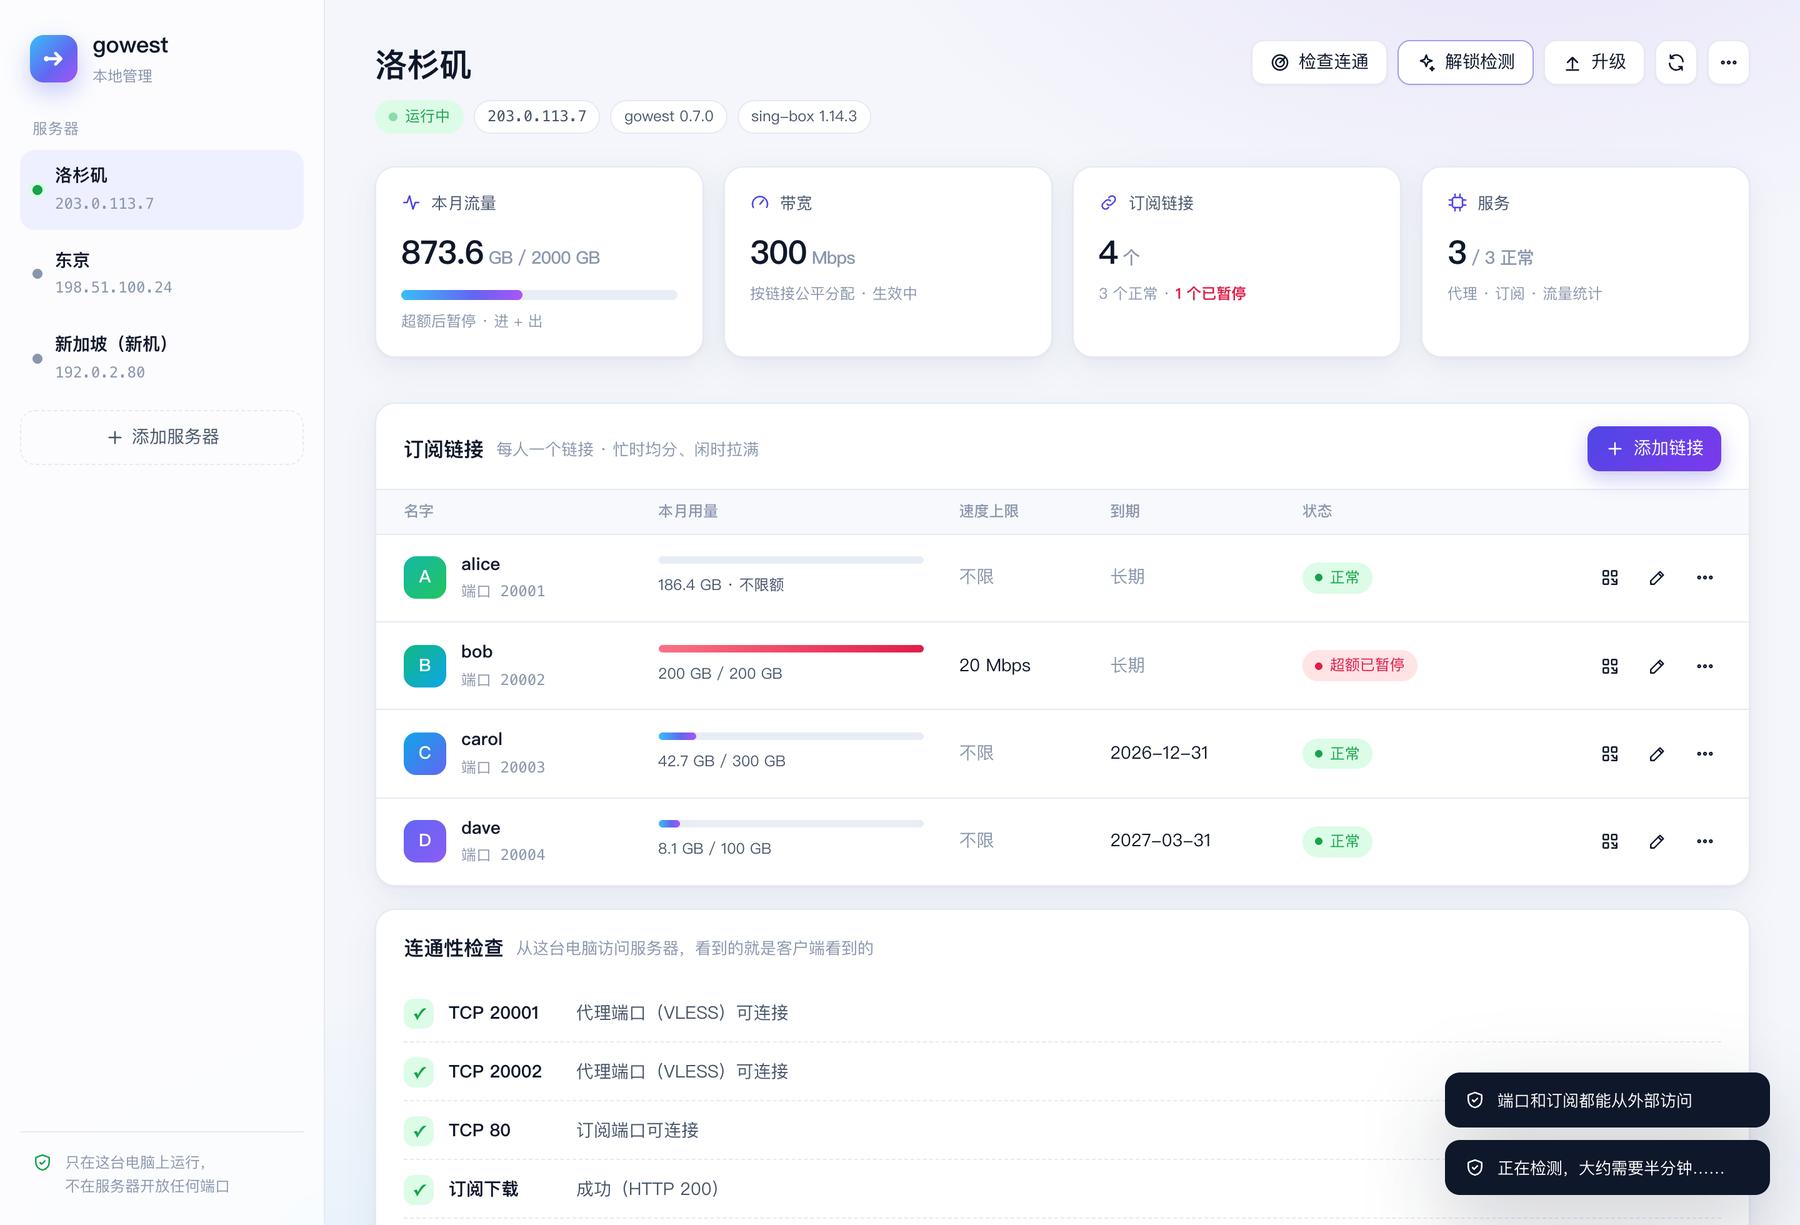
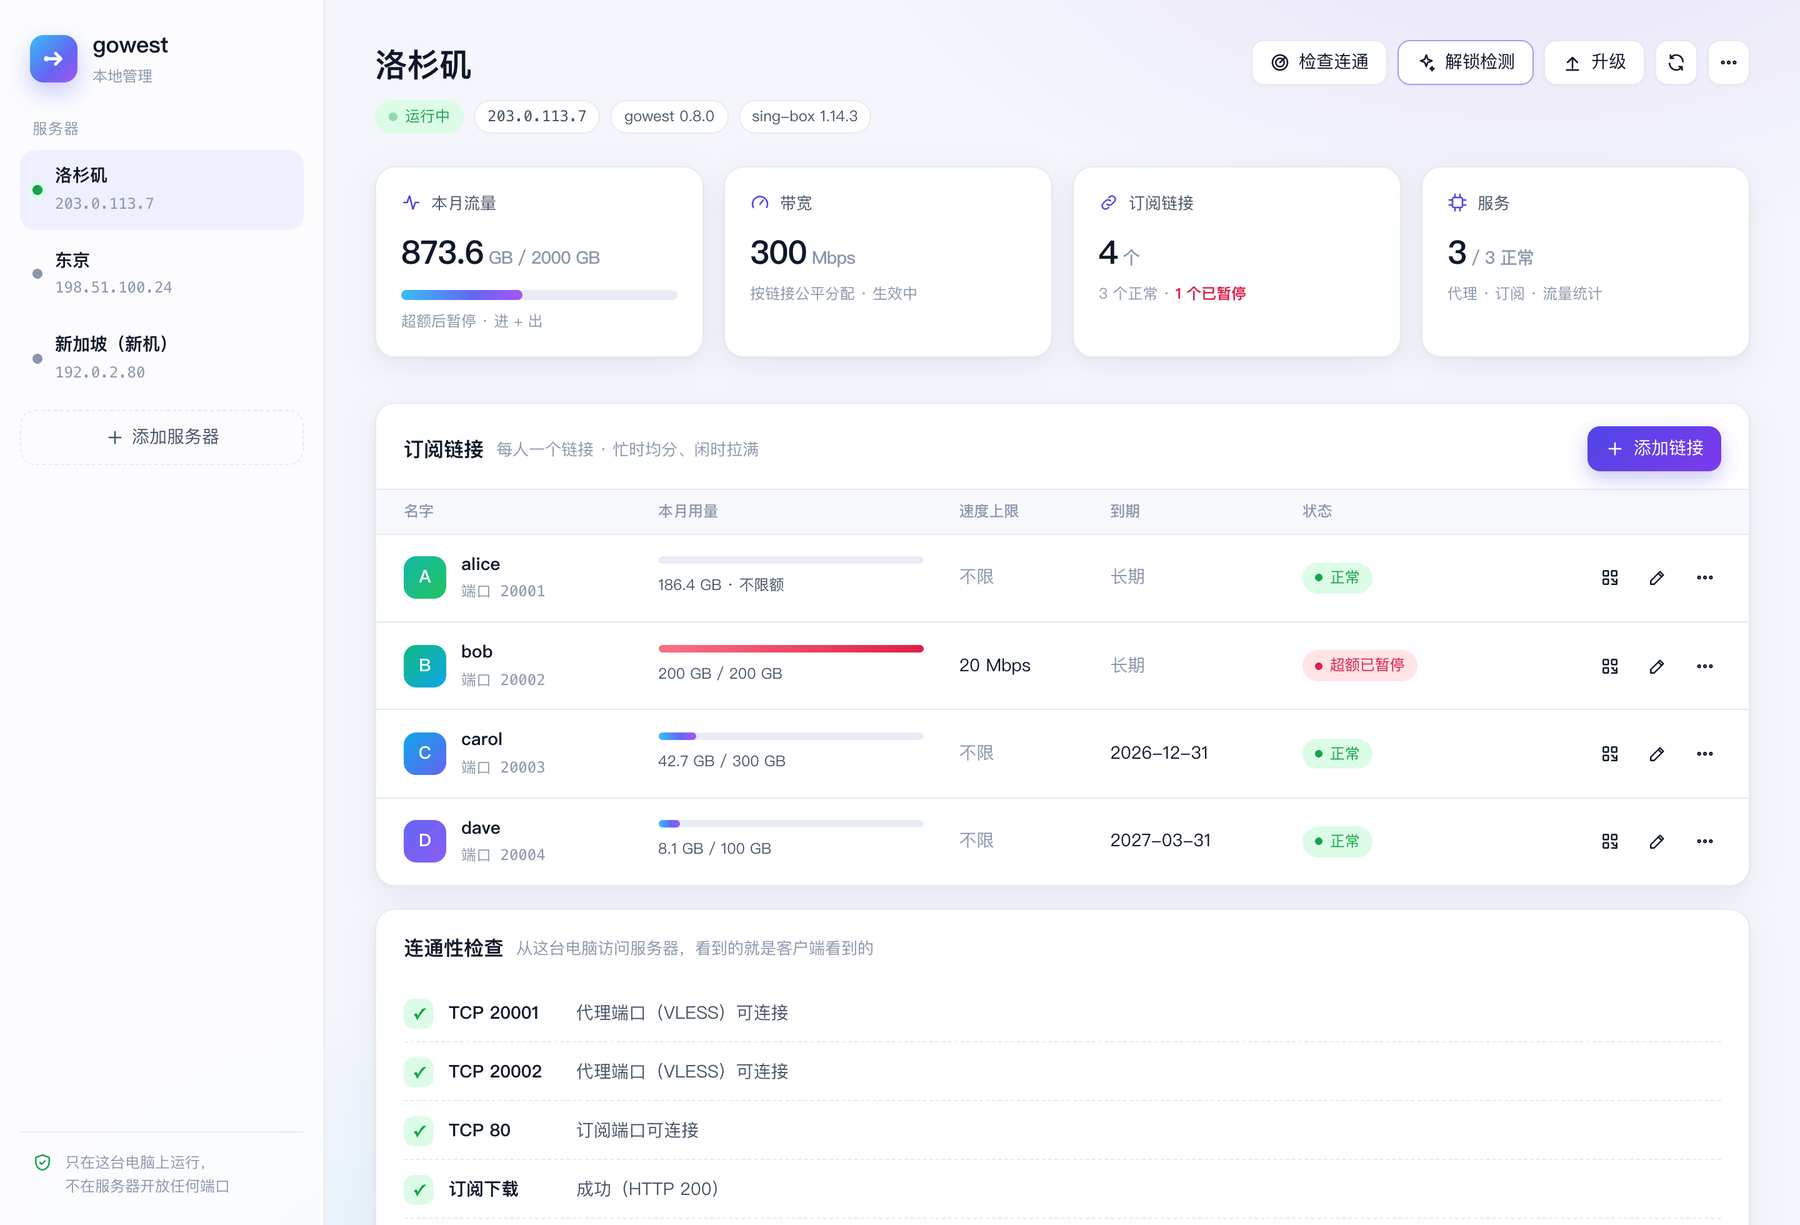
Refresh the README promo and fix lost output before exec
quick's opening lines vanished when run over SSH or from the web page:
stdout is block-buffered without a TTY and exec dropped the buffer.
The promo now shows the quick install, per-URL quotas and the local web
UI; screenshots no longer include transient toasts.

Changed region(s): [[0.7778, 0.8686, 0.9956, 1.0]]

diff --git a/ui/app.js b/ui/app.js
@@ -379,6 +379,7 @@ function runJob(jobId, title, server) {
     $('#job-state', el).innerHTML = d.ok ? '<b style="color:var(--good)">已完成</b>' : '<b style="color:var(--bad)">没有成功，详情见上面的输出</b>';
     $('#job-close', el).textContent = '关闭';
     if (d.ok) bars.forEach((b) => { b.className = 'done'; });
+    else bars.forEach((b) => { if (b.className === 'run' || (!b.className && b === bars[Math.ceil(stage) - 1])) b.className = 'fail'; });
     loadStatus(server);
   };
   tick();

diff --git a/ui/app.css b/ui/app.css
@@ -318,3 +318,4 @@ button, input, select { font: inherit; color: inherit; }
 .badge, .chip { white-space: nowrap; }
 .qr-wrap > div { min-width: 0; }
 .bar.empty > i { width: 0; }
+.progress i.fail { background: var(--bad); animation: none; }

diff --git a/tests/test_ui_080.py b/tests/test_ui_080.py
@@ -63,6 +63,17 @@ class CommandTests(unittest.TestCase):
         self.assertFalse(any('__pycache__' in n for n in names))
 
 
+class OutputTests(unittest.TestCase):
+    def test_messages_before_exec_survive_a_pipe(self):
+        """Over SSH stdout is a pipe; exec must not drop what quick printed first."""
+        import subprocess
+        kit = Path(__file__).resolve().parents[1]
+        p = subprocess.run([sys.executable, '-B', '-c',
+                            "import launcher; print('before-exec'); launcher.dispatch(['plan', '--help'])"],
+                           cwd=kit, capture_output=True, text=True, timeout=30)
+        self.assertIn('before-exec', p.stdout)
+        self.assertIn('--settings', p.stdout)
+
 class AccessTests(unittest.TestCase):
     def handler(self, host, origin=None):
         h = SimpleNamespace(headers={'Host': host, **({'Origin': origin} if origin else {})}, port=8123)

diff --git a/launcher.py b/launcher.py
@@ -217,6 +217,10 @@ def dispatch(arguments):
     if kit_runtime.compiled():
         import vpn
         return vpn.main(arguments)
+    # exec replaces this process without flushing; over SSH (no TTY) stdout is
+    # block-buffered, so earlier messages would silently disappear.
+    sys.stdout.flush()
+    sys.stderr.flush()
     os.execv(sys.executable, [sys.executable, '-B', str(ROOT / 'vpn.py')] + arguments)
 
 

diff --git a/render.py b/render.py
@@ -20,7 +20,7 @@ import routing
 
 DOMAINS = routing.CLAUDE
 PROJECT_NAME = 'gowest'
-KIT_VERSION = '0.8.0'
+KIT_VERSION = '0.8.1'
 SELECT_GROUP = '出口选择'
 AUTO_GROUP = '自动回退'
 # Tailscale control plane stays direct on every Mihomo client:

diff --git a/CHANGELOG.md b/CHANGELOG.md
@@ -2,6 +2,13 @@
 
 只记录对使用者有影响的变化。服务器内部路径 `/opt/la-vpn`、`/etc/la-vpn`、`/var/lib/la-vpn-deploy` 和 `la-vpn*` systemd 服务名为兼容旧部署而保留，各版本均未改动。
 
+## 0.8.1 · 2026-10-27
+
+- 修正：通过 SSH 或网页运行 `quick` 时，开始安装前打印的识别 IP、参数位置和安全组提示会丢失。原因是没有终端时输出有缓冲，切换到安装进程前没有刷新。已加回归测试。
+- 网页：安装或升级失败时，进度条上出错的那一段标红。
+- README 顶部动画更新：一条 `quick` 命令安装、按人管流量、本地网页管理。网页截图去掉了临时弹出的提示。
+- 验证：在阿里云测试机上，用真实网页完整走了一遍"添加服务器 → 显示未安装 → 开始安装"。上传、远程执行、实时输出都正常；因为那台机器已有 nginx，安装在只读预检阶段被正确拒绝，没有做任何改动。测试后已删除上传的目录和锁文件，nginx、docker 照常运行。
+
 ## 0.8.0 · 2026-10-27
 
 - **本地网页管理**：`./remote.sh ui`（Windows 上运行 `python gowest_ui.py`）。
@@ -158,7 +165,7 @@
 - 在真实安装上执行 `upgrade` 和 `users`（目前是模拟测试，加上关键部件的真实内核验证）。
 - `quick` 和 `check` 的完整流程，以及 `urls --qr` 的实际显示（测试机没有 qrencode，没有为此安装软件包）。
 - 海外服务器上的解锁检测结果（目前只在国内服务器上跑过）。
-- 网页里的安装、升级和用户管理在真实安装上的完整流程（网页后端只对未安装的测试服务器做过只读验证）。
+- 网页里的安装、升级和用户管理在真实安装上的完整流程。目前在测试服务器上验证到了预检拒绝这一步，那台机器不是空白服务器，不能真正安装。
 - 网页在 Windows 上的实际运行。
 - 自动安装 `linux-modules-extra` 和添加官方源的流程只做了模拟测试。测试机的模块都在基础内核包里，没有触发这条路径。
 - 真实 UFW 写入和云安全组生效。

diff --git a/README.md b/README.md
@@ -1,12 +1,12 @@
 <p align="center">
-  <img src="docs/images/promo.webp" alt="gowest：一条命令部署双协议代理，多人共用、流量配额" width="100%">
+  <img src="docs/images/promo.webp" alt="gowest：几个人合租一台服务器，一条命令部署，按人管流量，本地网页管理" width="100%">
 </p>
 
 <p align="center">
-  <img alt="version" src="https://img.shields.io/badge/version-0.8.0-6366f1">
+  <img alt="version" src="https://img.shields.io/badge/version-0.8.1-6366f1">
   <img alt="platform" src="https://img.shields.io/badge/server-Ubuntu%2024.04%20amd64%20%7C%20arm64-e95420">
   <img alt="sing-box" src="https://img.shields.io/badge/sing--box-1.14.3-0ea5e9">
-  <img alt="tests" src="https://img.shields.io/badge/tests-271%20passed-22c55e">
+  <img alt="tests" src="https://img.shields.io/badge/tests-272%20passed-22c55e">
   <img alt="clients" src="https://img.shields.io/badge/clients-macOS%20%7C%20Windows%20%7C%20Android%20%7C%20iOS-64748b">
 </p>
 

diff --git a/docs/快速部署.md b/docs/快速部署.md
@@ -1,4 +1,4 @@
-# gowest 新服务器快速部署（0.8.0）
+# gowest 新服务器快速部署（0.8.1）
 
 适用：**空白 Ubuntu 24.04，amd64/arm64，至少 512 MiB 内存，公网 IPv4**。
 
